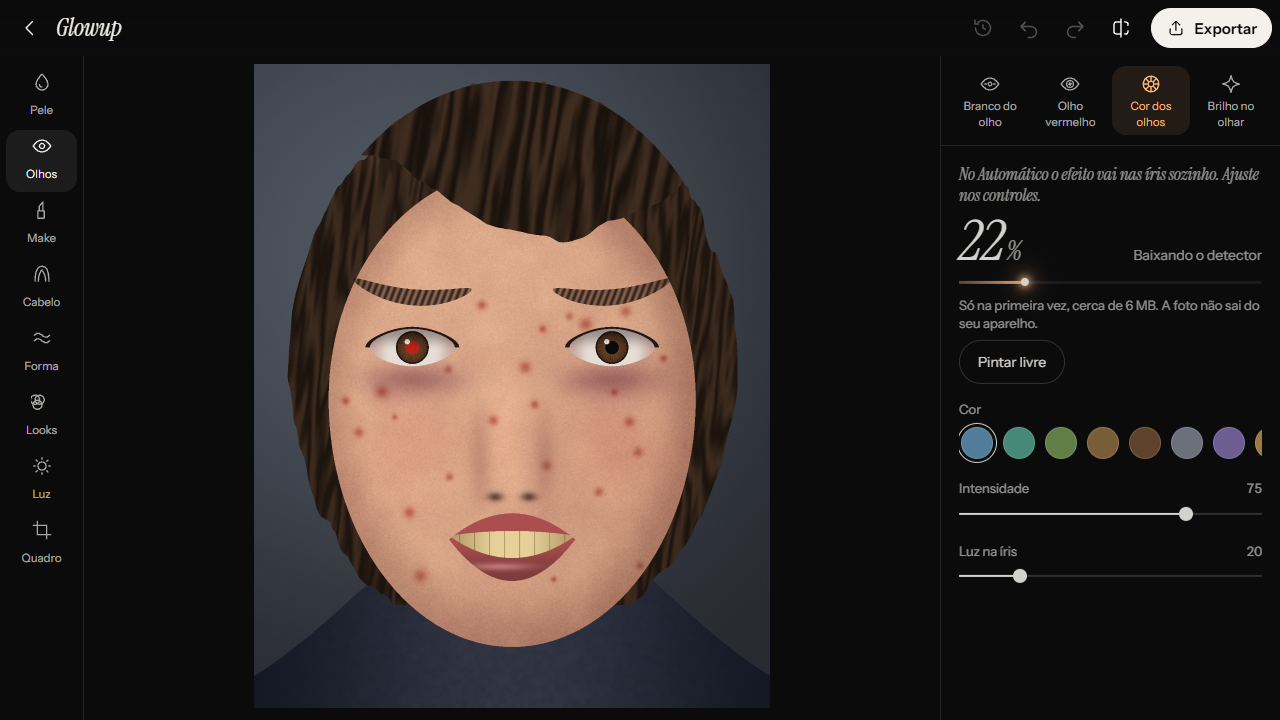
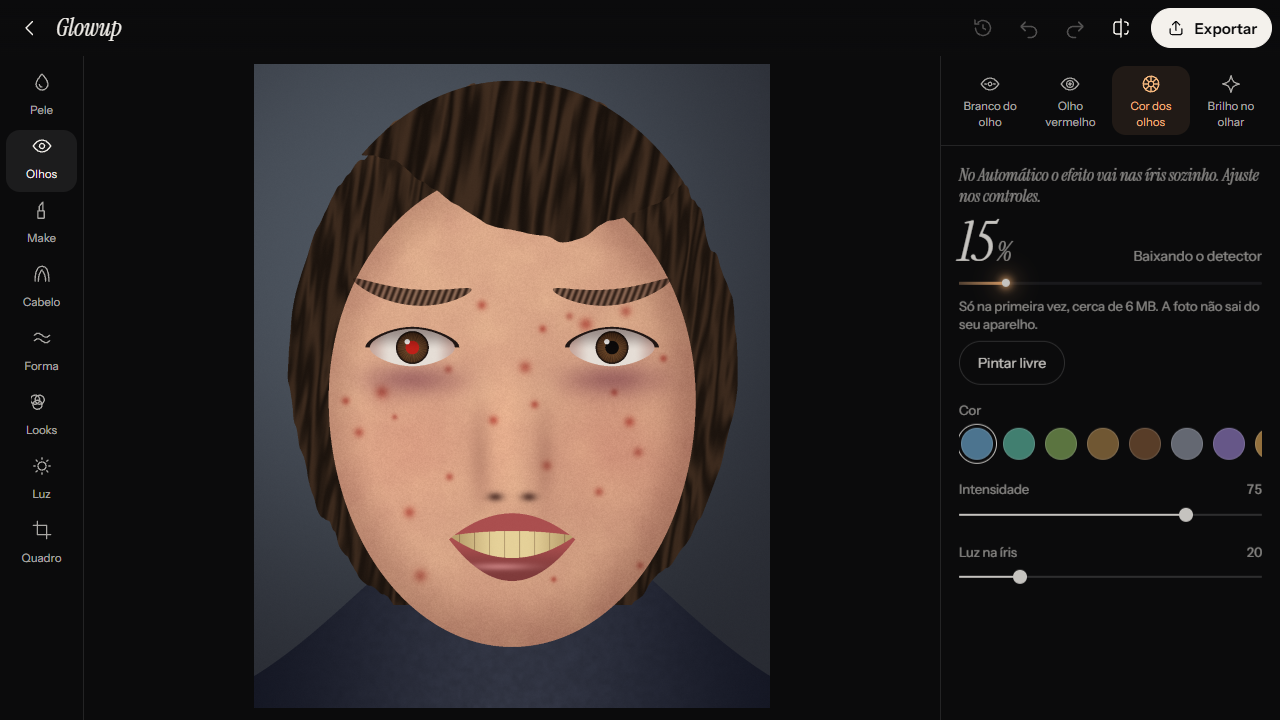
feat: find the iris in the photo, and reset the photo in one tap
- Cor dos olhos takes the iris from the photo: what is as dark as the
  middle of the iris, against the skin and white around it, near the
  circle the model gives. On a tilted head the eye contour of the model
  cut the iris, and widening it by 12% let color onto the skin; on an
  eye looking aside the circle sat off the iris. The circle now moves to
  where the iris is, lashes and lid shadow are left out by being redder
  than the iris, and a photo without contrast falls back to the model.
- "Voltar ao original" no longer asks first: the undo next to it brings
  everything back.

diff --git a/src/core/face/regions.ts b/src/core/face/regions.ts
@@ -19,6 +19,37 @@ export type FaceRegion = LandmarkRegion | 'hair';
 
 /** The contour of the eye runs on the lash line, so the iris gets a little room past it. */
 const EYE_ROOM = 1.12;
+/**
+ * With the photo at hand, the iris is what is as dark as it inside a circle a little larger than the
+ * one the model gives, and inside a contour with more room, since on a tilted head the contour of the
+ * model can cut the iris. Skin and the white of the eye are brighter and stay out.
+ */
+const IRIS_REACH = 1.05;
+const OPEN_ROOM = 1.35;
+/** Where the iris and its surroundings are sampled, as shares of the radius. */
+const IRIS_CORE = 0.7;
+const AROUND_FROM = 1.2;
+const AROUND_TO = 1.8;
+/** Below this gap in luma between the surroundings and the iris, the photo cannot tell them apart. */
+const MIN_CONTRAST = 0.06;
+const SHARP_FEATHER = 0.05;
+/**
+ * Lashes and the shadow of the lid are as dark as the iris but redder, as skin is. Redness here is red
+ * minus green over the sum of the channels; past the iris by the first step it starts to leave, past the
+ * second it is gone. A brown iris is red too, and its reference moves with it.
+ */
+const REDDER_FROM = 0.055;
+const REDDER_TO = 0.1;
+/** Lashes and lids only reach the edge of the iris. A red pupil, in the middle, stays in. */
+const REDDER_EDGE_FROM = 0.55;
+const REDDER_EDGE_TO = 0.75;
+/**
+ * The circle of the model can sit off the iris when the eye looks aside. It is moved, by up to this
+ * share of the radius, to where it holds the most iris and leaves the least around it.
+ */
+const SHIFT_REACH = 0.4;
+const SHIFT_STEP = 0.05;
+const SHIFT_RING = 1.3;
 const CIRCLE_SIDES = 24;
 /** Softness of the edges, as a share of the radius of the iris and of the width of the mouth. */
 const IRIS_FEATHER = 0.12;
@@ -82,13 +113,133 @@ function place(out: Uint8Array, target: MaskTarget, area: Area, shape: Float32Ar
   }
 }
 
+function smooth(lo: number, hi: number, v: number): number {
+  const t = Math.min(1, Math.max(0, (v - lo) / (hi - lo)));
+  return t * t * (3 - 2 * t);
+}
+
+const median = (list: number[]) => list.sort((a, b) => a - b)[list.length >> 1];
+
+/**
+ * The iris as the photo shows it, over `area`: the pixels inside a slightly larger circle and a roomy
+ * contour that are as dark as the middle of the iris, against the skin and white around it. Small bright
+ * flecks in the iris are closed; the glint of light stays mostly out. Null when the photo cannot tell
+ * the iris from its surroundings, as with dark skin and dark eyes, or when the area is too small.
+ */
+/** Where the disc of `radius` over `like` holds the most and leaves the least in a ring around it. */
+function bestCenter(like: Float32Array, area: Area, center: Point, radius: number): Point {
+  const score = ([cx, cy]: Point) => {
+    let s = 0;
+    const reach = radius * SHIFT_RING;
+    const x0 = Math.max(0, Math.floor(cx - reach - area.x));
+    const x1 = Math.min(area.w, Math.ceil(cx + reach - area.x));
+    const y0 = Math.max(0, Math.floor(cy - reach - area.y));
+    const y1 = Math.min(area.h, Math.ceil(cy + reach - area.y));
+    for (let y = y0; y < y1; y++) {
+      for (let x = x0; x < x1; x++) {
+        const d = Math.hypot(x + area.x + 0.5 - cx, y + area.y + 0.5 - cy) / radius;
+        if (d < 1) s += like[y * area.w + x];
+        else if (d < SHIFT_RING) s -= like[y * area.w + x];
+      }
+    }
+    return s;
+  };
+  let best = center;
+  let top = score(center);
+  const steps = Math.round(SHIFT_REACH / SHIFT_STEP);
+  for (let j = -steps; j <= steps; j++) {
+    for (let i = -steps; i <= steps; i++) {
+      if (Math.hypot(i, j) > steps) continue;
+      const at: Point = [center[0] + i * SHIFT_STEP * radius, center[1] + j * SHIFT_STEP * radius];
+      const s = score(at);
+      if (s > top) {
+        top = s;
+        best = at;
+      }
+    }
+  }
+  return best;
+}
+
+export function irisFromPhoto(
+  luma: Float32Array,
+  rgba: Uint8ClampedArray | undefined,
+  area: Area,
+  given: Point,
+  radius: number,
+  contour: readonly Point[],
+): Float32Array | null {
+  let center = given;
+  const opening = cover(around(contour, OPEN_ROOM), area);
+  const inside: number[] = [];
+  const outside: number[] = [];
+  const dist = new Float32Array(luma.length);
+  const red = new Float32Array(luma.length);
+  for (let y = 0; y < area.h; y++) {
+    for (let x = 0; x < area.w; x++) {
+      const i = y * area.w + x;
+      const d = Math.hypot(x + area.x + 0.5 - center[0], y + area.y + 0.5 - center[1]) / radius;
+      dist[i] = d;
+      if (rgba) red[i] = (rgba[i * 4] - rgba[i * 4 + 1]) / (rgba[i * 4] + rgba[i * 4 + 1] + rgba[i * 4 + 2] + 1);
+      if (opening[i] < 0.5) continue;
+      if (d < IRIS_CORE) inside.push(i);
+      else if (d > AROUND_FROM && d < AROUND_TO) outside.push(luma[i]);
+    }
+  }
+  if (inside.length < 12 || outside.length < 12) return null;
+  const dark = median(inside.map((i) => luma[i]));
+  const light = median(outside);
+  if (light - dark < MIN_CONTRAST) return null;
+  // The color of the iris, left of the pupil and of the glint, which are both gray.
+  const body = inside.filter((i) => luma[i] > dark * 0.7 && luma[i] < (dark + light) / 2);
+  const reference = rgba && body.length >= 8 ? median(body.map((i) => red[i])) : null;
+  let like: Float32Array = new Float32Array(luma.length);
+  for (let i = 0; i < like.length; i++) {
+    like[i] = smooth(0.3, 0.6, (light - luma[i]) / (light - dark));
+    if (reference !== null) {
+      const edge = smooth(REDDER_EDGE_FROM, REDDER_EDGE_TO, dist[i]);
+      like[i] *= 1 - edge * smooth(reference + REDDER_FROM, reference + REDDER_TO, red[i]);
+    }
+  }
+  const held = new Float32Array(like.length);
+  for (let i = 0; i < like.length; i++) held[i] = like[i] * opening[i];
+  center = bestCenter(held, area, center, radius);
+  for (let y = 0; y < area.h; y++) {
+    for (let x = 0; x < area.w; x++) dist[y * area.w + x] = Math.hypot(x + area.x + 0.5 - center[0], y + area.y + 0.5 - center[1]) / radius;
+  }
+  const big = cover(
+    Array.from({ length: CIRCLE_SIDES }, (_, i): Point => {
+      const a = (i / CIRCLE_SIDES) * Math.PI * 2;
+      return [center[0] + Math.cos(a) * radius * IRIS_REACH, center[1] + Math.sin(a) * radius * IRIS_REACH];
+    }),
+    area,
+  );
+  // Flecks and grain inside the iris come back: iris all around brings a pixel back.
+  const near = softBlur(like, area.w, area.h, Math.max(0.6, radius * 0.12));
+  for (let i = 0; i < like.length; i++) {
+    if (dist[i] < 0.9) like[i] = Math.max(like[i], smooth(0.45, 0.75, near[i]));
+  }
+  like = softBlur(like, area.w, area.h, Math.max(0.5, radius * SHARP_FEATHER));
+  for (let i = 0; i < like.length; i++) like[i] *= opening[i] * big[i];
+  return like;
+}
+
 function addEye(out: Uint8Array, target: MaskTarget, region: 'iris' | 'sclera', eye: readonly Point[], ring: readonly Point[]): void {
   const contour = toGrid(eye, target);
   const { outline, radius } = circleThrough(toGrid(ring, target));
   const sigma = radius * IRIS_FEATHER;
   const roomy = around(contour, EYE_ROOM);
-  const area = areaAround([...roomy, ...outline], sigma * 3 + 2, target);
+  const area = areaAround([...around(contour, OPEN_ROOM), ...outline], radius * (AROUND_TO - 1) + sigma * 3 + 2, target);
   if (area.w < 1 || area.h < 1) return;
+  if (region === 'iris') {
+    const luma = target.luma?.(area);
+    const box = bounds(outline);
+    const found = luma ? irisFromPhoto(luma, target.color?.(area), area, [box.x + box.w / 2, box.y + box.h / 2], radius, contour) : null;
+    if (found) {
+      place(out, target, area, found);
+      return;
+    }
+  }
   const disc = cover(outline, area);
   const opening = cover(region === 'iris' ? roomy : contour, area);
   const shape = new Float32Array(disc.length);

diff --git a/tests/unit/regions.test.ts b/tests/unit/regions.test.ts
@@ -1,6 +1,7 @@
 import { describe, expect, it } from 'vitest';
 import type { Point } from '../../src/core/face/mask';
 import { buildRegionMask, lipReach } from '../../src/core/face/regions';
+import type { MaskTarget } from '../../src/core/face/mask';
 import { EYES, FACE_OVAL, INNER_LIPS, IRISES, makeFace, OUTER_LIPS, readFace, type FaceParts } from '../../src/core/face/scan';
 
 const SIZE = 200;
@@ -117,6 +118,66 @@ describe('iris and white of the eye', () => {
       outerLips: [],
     });
     expect(at(buildRegionMask([small], 'iris', target)!, 0.5, 0.5)).toBeGreaterThan(150);
+  });
+});
+
+describe('iris from the photo', () => {
+  const SKIN: [number, number, number] = [205, 150, 125];
+  const WHITE: [number, number, number] = [215, 205, 200];
+  const IRIS: [number, number, number] = [70, 95, 105];
+  const LASH: [number, number, number] = [75, 45, 32];
+
+  /**
+   * One eye at (0.3, 0.3): skin around, the white inside the lids, and the iris a little left and below
+   * where the model puts it, as when the eye looks aside. Lashes along the upper lid.
+   */
+  function photo(iris: Point, irisColor = IRIS, white = WHITE, skin = SKIN): MaskTarget {
+    const paint = (u: number, v: number): [number, number, number] => {
+      if (Math.abs(v - (0.3 - 0.036)) < 0.006 && Math.abs(u - 0.3) < 0.07) return LASH;
+      const inEye = ((u - 0.3) / 0.08) ** 2 + ((v - 0.3) / 0.04) ** 2 < 1;
+      if (!inEye) return skin;
+      return Math.hypot(u - iris[0], v - iris[1]) < 0.035 ? irisColor : white;
+    };
+    const read = (area: { x: number; y: number; w: number; h: number }) => {
+      const out = new Uint8ClampedArray(area.w * area.h * 4);
+      for (let y = 0; y < area.h; y++) {
+        for (let x = 0; x < area.w; x++) out.set([...paint((x + area.x + 0.5) / SIZE, (y + area.y + 0.5) / SIZE), 255], (y * area.w + x) * 4);
+      }
+      return out;
+    };
+    return {
+      ...target,
+      color: read,
+      luma: (area) => {
+        const rgba = read(area);
+        const out = new Float32Array(area.w * area.h);
+        for (let i = 0; i < out.length; i++) out[i] = (0.2126 * rgba[i * 4] + 0.7152 * rgba[i * 4 + 1] + 0.0722 * rgba[i * 4 + 2]) / 255;
+        return out;
+      },
+    };
+  }
+
+  it('follows the iris the photo shows, also where the circle of the model misses it', () => {
+    const mask = buildRegionMask([face(0)], 'iris', photo([0.288, 0.31]))!;
+    // The part of the iris left of and below the circle of the model.
+    expect(at(mask, 0.26, 0.315)).toBeGreaterThan(200);
+    expect(at(mask, 0.288, 0.31)).toBeGreaterThan(240);
+    // The white the circle of the model covers, on the other side.
+    expect(at(mask, 0.33, 0.29)).toBeLessThan(40);
+  });
+
+  it('leaves out the skin around and the lashes over the iris', () => {
+    const mask = buildRegionMask([face(0)], 'iris', photo([0.3, 0.3]))!;
+    expect(at(mask, 0.3, 0.3)).toBeGreaterThan(240);
+    expect(at(mask, 0.3, 0.264)).toBeLessThan(60);
+    expect(at(mask, 0.3, 0.338)).toBeLessThan(40);
+  });
+
+  it('falls back to the shape of the model when the photo cannot tell the iris apart', () => {
+    const dark: [number, number, number] = [80, 60, 50];
+    const mask = buildRegionMask([face(0)], 'iris', photo([0.288, 0.31], dark, dark, dark))!;
+    expect(at(mask, 0.3, 0.3)).toBeGreaterThan(200);
+    expect(at(mask, 0.26, 0.315)).toBeLessThan(60);
   });
 });
 

diff --git a/src/ui/Editor.svelte b/src/ui/Editor.svelte
@@ -82,11 +82,6 @@
   const groupLabel = $derived(GROUPS.find((g) => g.id === ui.group)?.label ?? '');
   const groupDirty = $derived((ui.rev, ready && groupChanged(ui.group)));
   const photoDirty = $derived((ui.rev, ready && photoChanged()));
-  /** The whole photo goes back only after a second yes, since leaving the editor drops the undo. */
-  let askReset = $state(false);
-  $effect(() => {
-    if (!photoDirty) askReset = false;
-  });
 
   /** The words under the light stay a little longer than the light, time enough to read them. */
   let reachNote = $state(false);
@@ -356,8 +351,7 @@
     } else if (key === '-') {
       e.zoomBy(e.canvas.clientWidth / 2, e.canvas.clientHeight / 2, 0.8);
     } else if (key === 'escape') {
-      if (askReset) askReset = false;
-      else if (ui.exportOpen) ui.exportOpen = false;
+      if (ui.exportOpen) ui.exportOpen = false;
       else if (ui.faceChoosing) ui.faceChoosing = false;
       else if (ui.splitOn) ui.splitOn = false;
       else void selectTool(null);
@@ -406,7 +400,7 @@
     <span class="brand serif">Glowup</span>
     <div class="grow"></div>
     <button type="button" class="icon-btn" aria-label="Voltar ao original" title="Voltar ao original" data-testid="reset-photo"
-      disabled={!photoDirty} onclick={() => (askReset = !askReset)}><Icon name="reset" /></button>
+      disabled={!photoDirty} onclick={() => void resetPhoto()}><Icon name="reset" /></button>
     <button type="button" class="icon-btn" aria-label="Desfazer" title={undoTitle} disabled={!canUndo} onclick={() => engine().undo()}><Icon name="undo" /></button>
     <button type="button" class="icon-btn" aria-label="Refazer" title={redoTitle} disabled={!canRedo} onclick={() => engine().redo()}><Icon name="redo" /></button>
     <button
@@ -490,22 +484,14 @@
     </div>
   {/if}
 
-  {#if marking && !askReset}
+  {#if marking}
     <div class="marking" data-testid="mark-chip" in:reveal={{ duration: 200, y: -6 }}>
       <span>Marca do pincel ligada</span>
       <button type="button" onclick={toggleMark}>Ver o resultado</button>
     </div>
   {/if}
 
-  {#if askReset}
-    <div class="marking ask" role="alertdialog" aria-label="Voltar ao original" data-testid="reset-ask" in:reveal={{ duration: 200, y: -6 }}>
-      <span>Tirar tudo e voltar à foto original?</span>
-      <button type="button" data-testid="reset-yes" onclick={() => { askReset = false; void resetPhoto(); }}>Voltar</button>
-      <button type="button" class="quiet" onclick={() => (askReset = false)}>Cancelar</button>
-    </div>
-  {/if}
-
-  {#if reachNote && !marking && !askReset}
+  {#if reachNote && !marking}
     <div class="reach" role="status" data-testid="reach-chip" in:reveal={{ duration: 200, y: -6 }}>O brilho mostra onde o pincel alcança</div>
   {/if}
 
@@ -850,14 +836,6 @@
     border-radius: 999px;
     color: var(--safe);
     font-size: 13px;
-  }
-
-  .marking.ask {
-    border-color: var(--line);
-  }
-
-  .marking .quiet {
-    color: var(--paper-2);
   }
 
   .zero {

diff --git a/tests/e2e/reset.spec.ts b/tests/e2e/reset.spec.ts
@@ -50,7 +50,7 @@ test.describe('voltar ao original', () => {
     expectNoErrors(errors);
   });
 
-  test('Voltar ao original pede confirmação, tira tudo e o desfazer devolve', async ({ page }) => {
+  test('Voltar ao original tira tudo num toque, e o desfazer devolve', async ({ page }) => {
     const errors = watch(page);
     await openEditor(page);
     const plain = await photo(page);
@@ -63,14 +63,9 @@ test.describe('voltar ao original', () => {
     await settle(page, 300);
     const edited = await photo(page);
 
+    // No question first: the undo is right next to it.
     await page.getByTestId('reset-photo').click();
-    await expect(page.getByTestId('reset-ask')).toBeVisible();
-    await page.keyboard.press('Escape');
-    await expect(page.getByTestId('reset-ask')).toHaveCount(0);
-    expect(await meanDiff(page, edited, await photo(page))).toBeLessThan(0.3);
-
-    await page.getByTestId('reset-photo').click();
-    await page.getByTestId('reset-yes').click();
+    await expect(page.getByRole('alertdialog')).toHaveCount(0);
     await settle(page, 500);
     await expect(undo(page)).toHaveAttribute('title', 'Desfazer: Voltar ao original');
     await expect(page.getByTestId('reset-photo')).toBeDisabled();

diff --git a/docs/DECISIONS.md b/docs/DECISIONS.md
@@ -151,7 +151,7 @@ feito com olhos e dentes.
 | # | Decisão | Motivo |
 | --- | --- | --- |
 | 84 | Zerar e Voltar ao original são uma etapa só do desfazer, com máscaras, manchas, liquify, filtro, ajustes, desfoque e recorte guardados juntos | O desfazer traz tudo de uma vez. Ferramentas voltam aos controles de fábrica, como se nunca tivessem aberto. |
-| 85 | Voltar ao original pede um segundo toque, Zerar não | O histórico não vai para o projeto salvo: depois de sair do editor, tirar tudo não tem volta. Um menu só custa menos, e o aviso lembra do desfazer. |
+| 85 | Voltar ao original pede um segundo toque, Zerar não (trocada pela 105) | O histórico não vai para o projeto salvo: depois de sair do editor, tirar tudo não tem volta. Um menu só custa menos, e o aviso lembra do desfazer. |
 | 86 | Comprimento do cabelo foi tentado e saiu | Esticar o último trecho de cada fio para baixo ficou artificial. Alongar de forma convincente pede um modelo generativo de 1 a 2 GB, lento no computador e inviável no celular, ou um servidor, que quebra a promessa de nada sair do aparelho. Projeto salvo durante o teste abre sem a ferramenta, e o próximo salvamento a descarta. |
 
 ## Pele
@@ -180,3 +180,5 @@ reais de domínio público, como foi feito com olhos e dentes.
 | 102 | Os círculos de Manchas têm um interruptor, ligado de início, e a escolha fica guardada no aparelho | Pedido de quem usa: os círculos atrapalham julgar se a foto ficou boa. Comparar mostra o antes, não o resultado limpo. Desligados, o aviso deixa de falar em tocar num círculo. |
 | 103 | O botão de lixeira saiu dos painéis: um segundo toque na ferramenta aberta tira o efeito, e outro aplica de novo | Pedido de quem usa. O botão da ferramenta vira o interruptor e mostra uma chavinha âmbar enquanto o efeito está na foto, o que também diz, no menu, quais ferramentas mexeram na foto. Só nas ferramentas de pincel e em Manchas; nas outras o segundo toque segue recolhendo o painel. Com o painel recolhido no celular o toque reabre o painel antes, para ninguém apagar sem querer. |
 | 104 | Salvar a foto termina num momento próprio: a cópia sobe, um reflexo passa e um selo com tique carimba o canto | Pedido de quem usa: o fim da exportação passava seco, e o cartão de progresso sumia antes do tique dele aparecer. Tudo em CSS sobre a miniatura que já estava na tela, sem custo de exportação. |
+| 105 | Voltar ao original tira tudo num toque, sem pergunta, e a decisão 85 cai | Pedido de quem usa: o desfazer fica ao lado do botão e resolve um toque errado. A pergunta custava um toque a mais toda vez. Sair do editor ainda perde o desfazer, mas a edição fica salva no projeto até lá. |
+| 106 | Cor dos olhos acha a íris na própria foto: o que é tão escuro quanto o meio da íris, contra a pele e o branco em volta, e não mais vermelho que ela | Na selfie enviada por quem usa, o contorno do olho do modelo cortava a íris de uma cabeça inclinada, e o círculo da íris ficava fora do lugar num olho que olha de lado. Alargar o contorno em 12% levava cor para a pele. Agora o círculo vai, até 40% do raio, para onde a íris está, e só entra o que tem o escuro da íris. Cílios e a sombra da pálpebra são escuros também, mas mais vermelhos, e ficam de fora. Pele e olho escuros, sem contraste, voltam ao desenho do modelo. |

diff --git a/docs/DESIGN.md b/docs/DESIGN.md
@@ -128,6 +128,9 @@ rostos achados.
 
 - **Primeira vez.** Ao abrir a ferramenta, o cartão de progresso aparece no topo do painel com o aviso dos
   6 MB. O traço espera e um aviso explica. "Pintar livre" pula a espera.
+- **Íris.** A íris sai da própria foto, não só do desenho do modelo: o que é escuro como o meio da íris, perto
+  do círculo que o modelo dá, sem a pele, o branco, os cílios e o brilho da luz. A cor fica dentro da íris
+  mesmo com a cabeça inclinada ou o olho virado de lado.
 - **Interruptor.** "Só na íris", "Só no branco do olho" ou "Só nos dentes". Desligado vale para aquela
   ferramenta enquanto a foto estiver aberta.
 - **Traço fora.** A parte de fora some sem erro. Se o traço inteiro cair fora, um aviso aponta o
@@ -188,8 +191,8 @@ Cada uma segue o mesmo caminho dos olhos e dentes, com as palavras do cabelo.
 - **Por menu.** "Zerar" aparece no fim da fila de ferramentas quando o menu tem algo a tirar. Tira as máscaras e
   os controles das ferramentas do menu, e também o que é só dele: manchas em Pele, liquify em Forma, filtro e
   área em Looks, ajustes e desfoque em Luz, recorte em Quadro. Um aviso diz que o desfazer traz de volta.
-- **A foto toda.** Ícone no topo, ao lado do desfazer, apagado quando não há nada a tirar. Pede um segundo sim
-  num aviso sobre a foto, porque sair do editor perde o desfazer. `Esc` cancela.
+- **A foto toda.** Ícone no topo, ao lado do desfazer, apagado quando não há nada a tirar. Tira tudo num toque,
+  sem pergunta: o desfazer, logo ao lado, traz tudo de volta se foi sem querer.
 
 ## Filtro em um rosto
 
